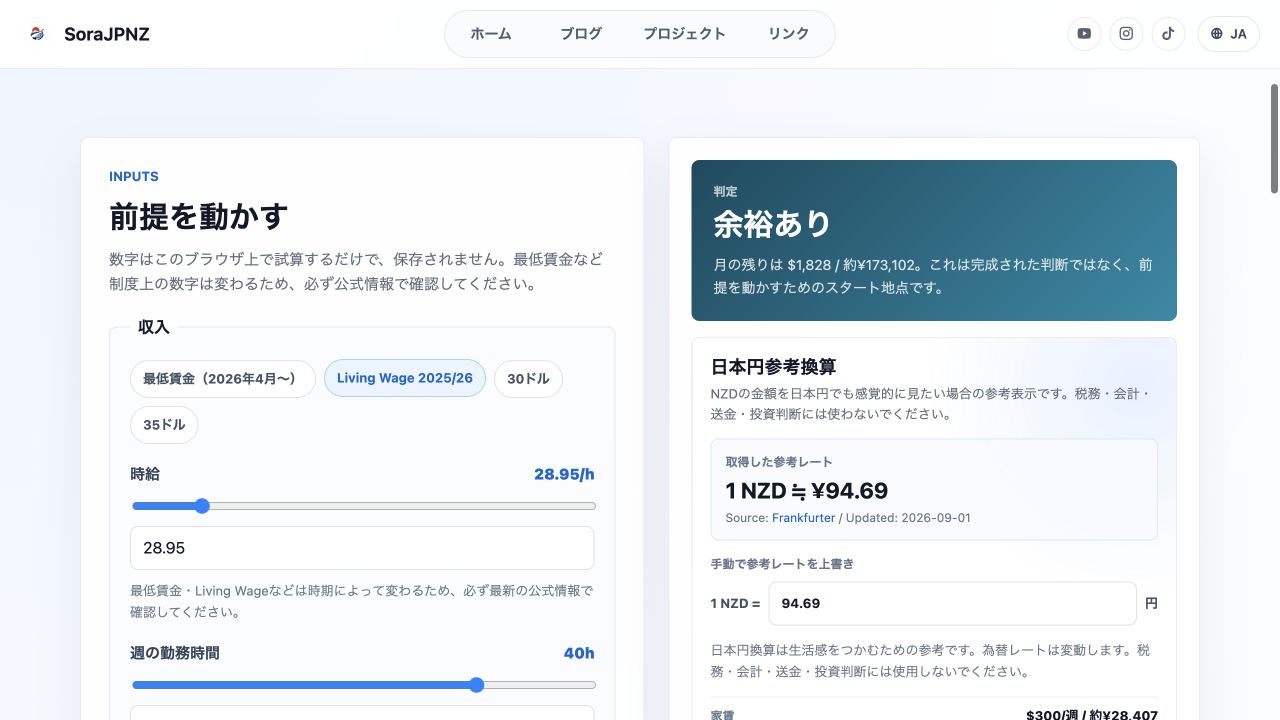
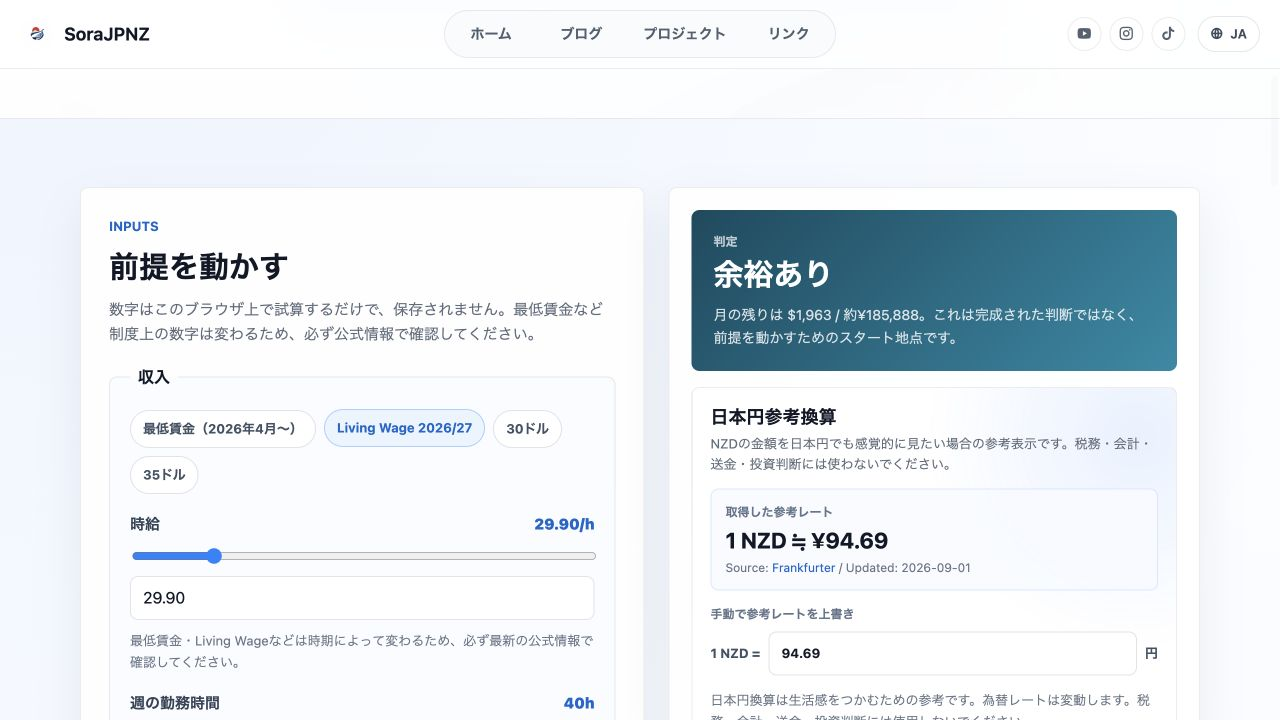
Update Living Wage reference to 2026/27

diff --git a/src/pages/AucklandLivingCostArticle.tsx b/src/pages/AucklandLivingCostArticle.tsx
@@ -23,7 +23,7 @@ const articleDescription =
 
 const articleMeta = [
   { label: '作成日', value: '2026-07-04' },
-  { label: '最終更新日', value: '2026-08-28' },
+  { label: '最終更新日', value: '2026-09-01' },
   { label: '状態', value: '公開記事' }
 ];
 
@@ -113,8 +113,8 @@ const sourceReferences = [
   {
     title: 'Living Wage',
     source: 'Living Wage Movement Aotearoa New Zealand',
-    url: 'https://www.livingwage.org.nz/lw25',
-    note: '2025/26 Living Wageは$28.95/hour。2025年9月1日から適用されている値で、2026年9月以降は再確認が必要。確認日: 2026-08-27。'
+    url: 'https://www.livingwage.org.nz/lwr_faq',
+    note: '2026/27 Living Wageは$29.90/hour。2026年9月1日から適用される任意基準で、法定最低賃金とは異なる。確認日: 2026-09-01。'
   },
   {
     title: '税金・手取り確認',
@@ -317,7 +317,7 @@ export function AucklandLivingCostArticle({ locale, path }: AucklandLivingCostAr
                 Employment New Zealandでは、2026年4月1日からadult minimum wageが <strong>${referenceWages.adultMinimum.toFixed(2)}/hour</strong>、starting-out/training minimum wageが <strong>$19.16/hour</strong> とされています（確認日: 2026-08-27）。
               </p>
               <p>
-                Living Wage Movement Aotearoa New Zealandでは、2025/26のLiving Wageが <strong>${referenceWages.livingWage.toFixed(2)}/hour</strong> とされています。2025年9月1日から適用されている値なので、2026年9月以降に読む場合は最新値を確認してください（確認日: 2026-08-27）。
+                Living Wage Movement Aotearoa New Zealandでは、2026/27のLiving Wageが <strong>${referenceWages.livingWage.toFixed(2)}/hour</strong> とされています。2026年9月1日から適用される任意基準で、法定最低賃金とは異なります（確認日: 2026-09-01）。
               </p>
               <p>
                 正確な手取りは、税コード、KiwiSaver、student loan、控除、個人の状況で変わります。この記事の試算では生活感を見るために総収入の約{Math.round(roughTakeHomeRate * 100)}%を概算手取りとして使っていますが、正確な税額や手取りはIRD、給与明細、または専門家で確認する前提です。
@@ -462,7 +462,7 @@ export function AucklandLivingCostArticle({ locale, path }: AucklandLivingCostAr
                 見たいのは、「どの生活が正解か」ではなく、家賃、勤務時間、車の有無が変わると、月に残る金額がどれくらい動くかです。
               </p>
               <p>
-                説明用の時給には、確認日時点で適用されている2025/26 Living Wageの <strong>${referenceWages.livingWage.toFixed(2)}/hour</strong> を使っています（確認日: 2026-08-27）。月収は計算機と同じく、総収入の約{Math.round(roughTakeHomeRate * 100)}%を概算手取りとして扱った値です。
+                説明用の時給には、2026年9月1日から適用される2026/27 Living Wageの <strong>${referenceWages.livingWage.toFixed(2)}/hour</strong> を使っています（確認日: 2026-09-01）。月収は計算機と同じく、総収入の約{Math.round(roughTakeHomeRate * 100)}%を概算手取りとして扱った値です。
               </p>
               <div className="article-scenario-notes">
                 {scenarios.map((scenario) => (
@@ -578,7 +578,7 @@ export function AucklandLivingCostArticle({ locale, path }: AucklandLivingCostAr
             </section>
             {/*
               Internal maintenance checklist:
-              - Reconfirm the Living Wage value on or after 2026-09-01.
+              - Reconfirm the Living Wage value after the next annual announcement.
               - Reconfirm the latest minimum wage and effective date from Employment New Zealand.
               - Confirm INZ wage thresholds before mentioning visa-related income rules.
               - Confirm IRD/take-home calculation guidance before discussing net pay.

diff --git a/src/pages/NzLifeRealityCalculator.tsx b/src/pages/NzLifeRealityCalculator.tsx
@@ -343,7 +343,7 @@ export function NzLifeRealityCalculator({ locale, path }: NzLifeRealityCalculato
       label: t('最低賃金（2026年4月〜）', 'Adult minimum wage (from April 2026)'),
       value: referenceWages.adultMinimum
     },
-    { label: 'Living Wage 2025/26', value: referenceWages.livingWage },
+    { label: 'Living Wage 2026/27', value: referenceWages.livingWage },
     { label: t('30ドル', '$30'), value: 30 },
     { label: t('35ドル', '$35'), value: 35 }
   ];

diff --git a/src/lib/nzLifeRealityCalculator.ts b/src/lib/nzLifeRealityCalculator.ts
@@ -56,7 +56,7 @@ export const monthlyFactor = 52 / 12;
 export const roughTakeHomeRate = 0.82;
 export const referenceWages = {
   adultMinimum: 23.95,
-  livingWage: 28.95
+  livingWage: 29.9
 } as const;
 
 export const defaultNzLifeInputs: CalculatorInputs = {
